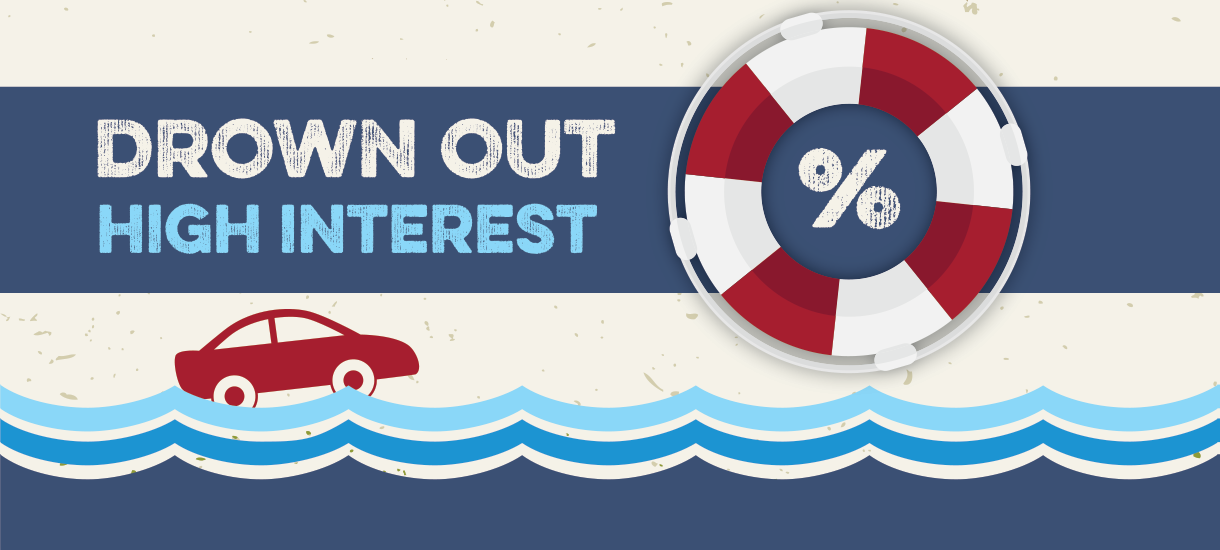
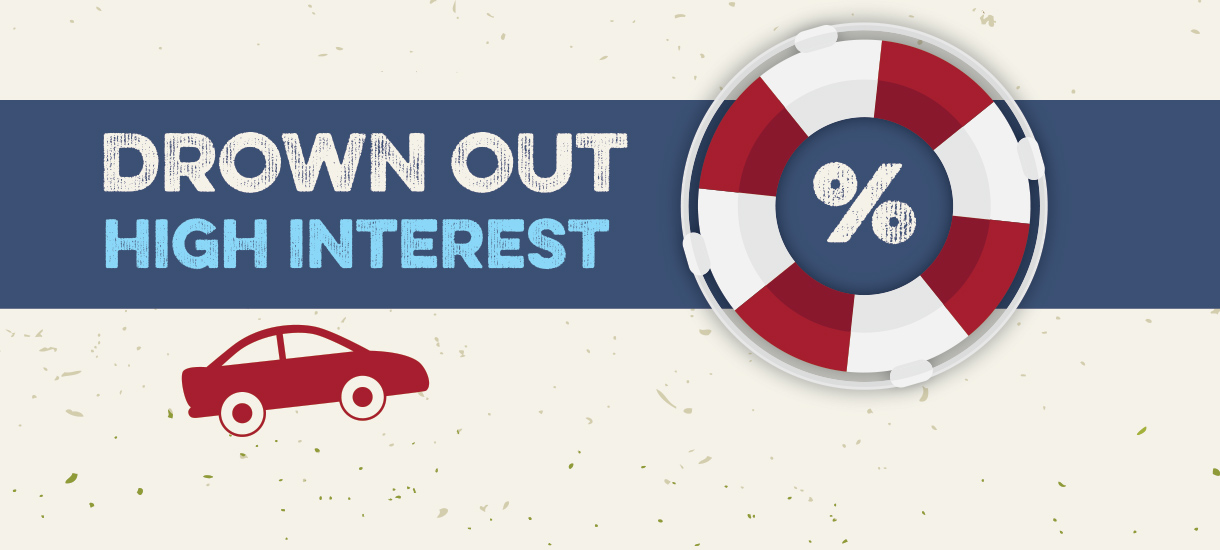
Adjust a few styles, set up header, adjust readme, change site name.

diff --git a/css/main.css b/css/main.css
@@ -1,1 +1,1 @@
[2 lines of base64/hex data omitted]

diff --git a/css/src/main.scss b/css/src/main.scss
@@ -4,7 +4,9 @@
 $yellow: #F3C25B;
 $teal: #83BAB2;
 $green: #8B9E74;
-$red: #BE1E2D;
+$red: #A61E2F;
+$navy: #3B5074;
+$sky: #8AD7F8;
 $grey: #414042;
 
 
@@ -34,33 +36,31 @@ $grey: #414042;
 // header styles
 header {
 	position: relative;
-	background: url(../img/bg-header.jpg) center center no-repeat;
-	background-size: cover;
-	padding: 25px 0;
+	background: url(../img/bg-header.jpg) top center repeat-x;
 	text-align: center;
 
-	@include respond-to( 600px ) {
-		text-align: right;
-	}
-
-	@include respond-to( 768px ) {
-		padding: 50px 0;
+	&:after {
+		content: "";
+		position: absolute;
+		height: 29%;
+		right: 0;
+		bottom: 0;
+		left: 0;
+		background: url(../img/header-wave.png) center center repeat-x;
+		background-size: contain;
 	}
 }
 
 
 h1 {
-	background-color: $red;
-	color: white;
-	@include font-title;
-	text-align: center;
-	padding: 20px 0;
+	padding: 30px 20px;
+	font-size: 2.5em;
 }
 
 
 // wrap div
 .wrap {
-	max-width: 1100px;
+	max-width: 122	0px;
 	margin: 0 auto;
 	position: relative;
 	@include clearfix;
@@ -81,15 +81,15 @@ h1 {
 // tool styles
 .tool {
 	padding: 0;
-	text-align: center;
+	text-align: left;
 	
 	@include respond-to( 768px ) {
 		padding: 20px 40px;
 	}
 
 	.calculator {
-		background-color: $red;
-		color: white;
+		background-color: $navy;
+		color: $sky;
 		padding: 20px 15px 30px;
 		margin-top: 30px;
 		@include font-title;
@@ -97,12 +97,21 @@ h1 {
 		button, input[type=submit], .btn {
 			width: 100%;
 			margin: 0 auto;
+			font-size: 2em;
+			background-color: $red;
+			border: 0;
+			border-radius: 20px;
+
+			@include respond-to( 768px ) {
+				font-size: 2.5em;
+			}
 		}
 		
 		@include respond-to( 768px ) { 
 			padding: 30px 20px 40px; 
 			border-radius: 20px;
 			font-size: 1.2em;
+			line-height: 1.7em;
 		}
 
 		@include respond-to( 1024px ) {

diff --git a/index.html b/index.html
@@ -2,7 +2,7 @@
 <html lang="en-US" class="no-js">
 <head>
 	<meta charset="utf-8">
-	<title>Rate Buster Challenge - Harvest FCU</title>
+	<title>Drown Out High Interest - Lake County Educational FCU</title>
 
 	<meta http-equiv="X-UA-Compatible" content="IE=edge" />
 	<meta name="viewport" content="width=device-width, initial-scale=1">
@@ -18,9 +18,10 @@
 			</div>
 		</header>
 
-		<h1>Give your auto loan rate the ole 1, 2!</h1>
 		
 		<div class="wrap">
+			<h1>Just tell us a little about your current auto loan and see how much you can save. Go on. Put us to the test. </h1>
+
 			<div class="tool group">
 					
 				<div class="half right first">
@@ -35,7 +36,7 @@
 							<input type="text" class="term" placeholder="36m, 60m"></p>
 						<p><label>Your Current Rate</label>
 							<input type="text" class="rate" placeholder="7%"></p>
-						<p><button class="accrue-calculate">Calculate my Savings</button></p>
+						<p><button class="accrue-calculate">Save Me</button></p>
 					</div>
 				</div>
 
@@ -58,10 +59,10 @@
 			<div class="wrap">
 
 				<div class="half separator">
-					<a href="http://harvestfcu.org/"><img src="img/logo.png"></a>
+					<a href="http://lakecounty.org/"><img src="img/logo.png"></a>
 				</div>
 				<div class="half">
-					<h2>740.522.5277</h2>
+					<h2>(440)352-4732</h2>
 				</div>
 
 				<div class="fine-print group">

diff --git a/readme.md b/readme.md
@@ -1,5 +1,5 @@
-# Lake County CU Loan Calculator
+# Lake County Educational FCU Loan Calculator
 
-A small calculator microsite created for Lake County Credit Union. Developing in the open and deploying to Github Pages. Report bugs if you like but this project is mainly here to expose our development processes.
+A small calculator microsite created for Lake County Educational Federal Credit Union. Developing in the open and deploying to Github Pages. Report bugs if you like but this project is mainly here to expose our development processes.
 
 The art, logo, and names used belong to their respective owners and shouldn't be used without permission. That said, help yourself to the code or suggest improvements!
